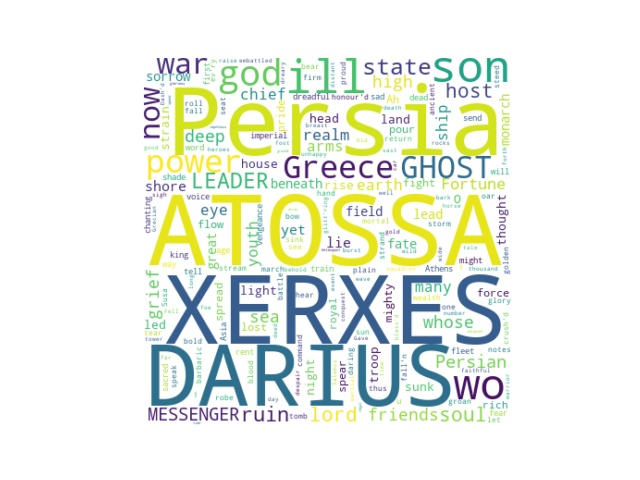
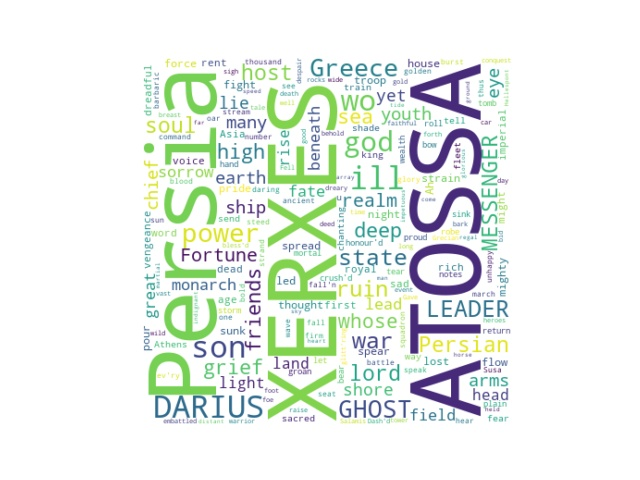
added lemmatization and preprocessing

diff --git a/core/translation.py b/core/translation.py
@@ -1,9 +1,14 @@
 from __future__ import annotations
-from typing import List
-from nltk.sentiment import SentimentIntensityAnalyzer
-from wordcloud import WordCloud, STOPWORDS, ImageColorGenerator
+import nltk
 import os
 import numpy as np
+import re
+
+from typing import List
+from nltk.sentiment import SentimentIntensityAnalyzer
+from nltk.stem import WordNetLemmatizer
+from wordcloud import WordCloud, STOPWORDS, ImageColorGenerator
+
 
 class Translation:
     def __init__(self, info: dict, path: str, delimiter: str = '#') -> Translation:
@@ -14,8 +19,9 @@ class Translation:
         self.text = self.load_text(os.path.join(path, self.file))
         self.lines = len(self.text)
         self.polarity_score = SentimentIntensityAnalyzer().polarity_scores
+        self.lemmatize = WordNetLemmatizer().lemmatize
         self.delimiter = delimiter
-        self.stopwords = ["ye", "thy", "thee", "hast", "chorus", "strophe", "antistrophe", "thou", "pg", "o'er", "chor", "hath", "0"]
+        self.stopwords = set(nltk.corpus.stopwords.words('english') + ["ye", "thy", "thee", "hast", "chorus", "strophe", "antistrophe", "thou", "pg", "o'er", "chor", "hath", "0"])
 
     def print_info(self) -> None:
         print(f"{self.translator}, {self.year}. Lines: {self.lines}")
@@ -41,11 +47,13 @@ class Translation:
             index += 1
         return scores
 
-    def sentiment_by_section(self, amplification = 5):
-        entire_text = " \n ".join(self.text)
-        print(f"Sections: {entire_text.count('#')}")
-        sections = entire_text.split('#')
-        scores = np.zeros((entire_text.count('#') + 1, ))
+    def sentiment_by_section(self, amplification = 1):
+        #entire_text = " \n ".join(self.text)
+        sections = self.preprocess_text()
+        #print(entire_text)
+        print(f"Sections: {len(sections)}")
+        #sections = entire_text.split('#')
+        scores = np.zeros((len(sections) + 1, ))
 
         index = 0
         for section in sections:
@@ -75,3 +83,39 @@ class Translation:
         with open(file, encoding = "utf8") as f:
             contents = f.readlines()
         return contents
+
+    def preprocess_text(self, lemmatize: bool = True):
+        text = ' '.join(self.text)
+        sections = text.split('#')
+
+        for i, section in enumerate(sections):
+            # Remove all the special characters
+            section = re.sub(r'\W', ' ', str(section))
+
+            # remove all single characters
+            section = re.sub(r'\s+[a-zA-Z]\s+', ' ', section)
+
+            # Remove single characters from the start
+            section = re.sub(r'\^[a-zA-Z]\s+', ' ', section)
+
+            # Substituting multiple spaces with single space
+            section = re.sub(r'\s+', ' ', section, flags=re.I)
+
+            section = section.lower()
+            #block = [word for word in block if word not in self.stopwords]
+            #print(block)
+
+            if lemmatize:
+                tokens = section.split()
+                #print(tokens)
+                tokens = [self.lemmatize(word) for word in tokens]
+                tokens = [word for word in tokens if word not in self.stopwords]
+                #tokens = [word for word in tokens if len(word) > 3]
+                #print(tokens)
+
+                section = ' '.join(tokens)
+
+            sections[i] = section 
+
+        return sections
+    
